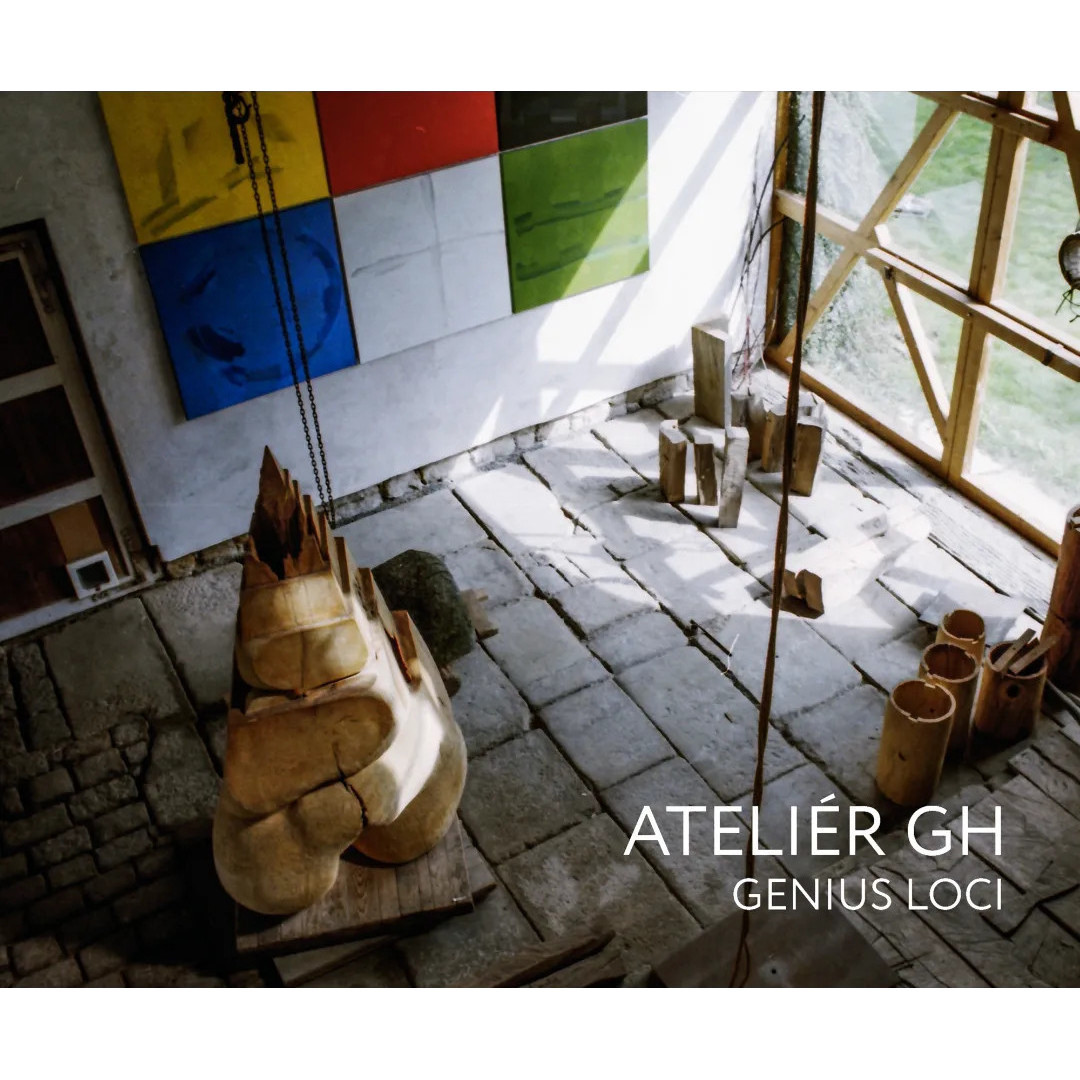
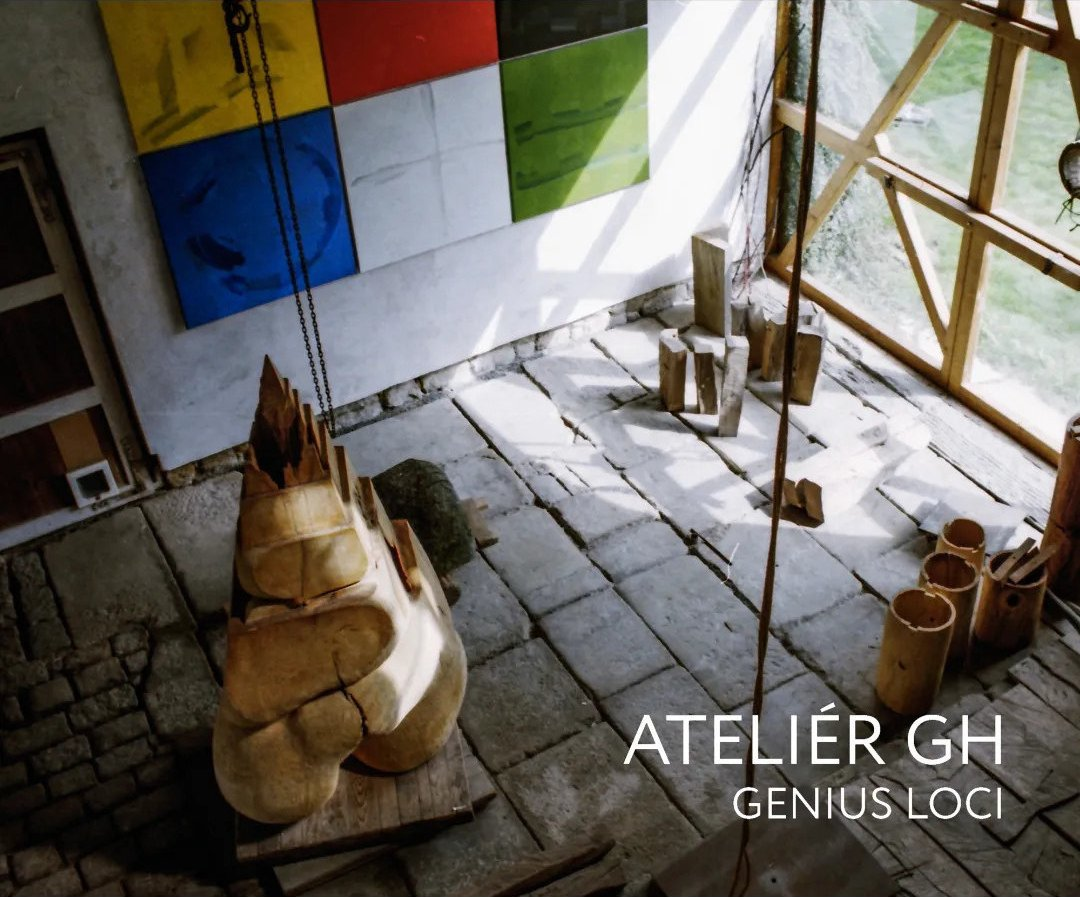
add previews

diff --git a/assets/css/main.scss b/assets/css/main.scss
@@ -246,3 +246,7 @@ li.nav-subitem {
 .preview-gallery-title > a {
   color: black;
 }
+
+.max-width {
+  max-width: 100%;
+}

diff --git a/_pages/photography.md b/_pages/photography.md
@@ -9,6 +9,150 @@ nav_item_style: >
 nav_item_classes:
   - divider-bottom
 published: true
+images:
+  spotlight: true
+preview_galleries:
+  - id: gallery-subjective-landscape
+    title: subjective landscape
+    url: /photography/subjective-landscape
+    images:
+      - /photography/assets/img/subjective_landscape/subjective_landscape_1a-480.webp
+      - /photography/assets/img/subjective_landscape/subjective_landscape_1b-480.webp
+      - /photography/assets/img/subjective_landscape/subjective_landscape_1c-480.webp
+
+  - id: gallery-geometry
+    title: geometry
+    url: /photography/geometry
+    images:
+      - /photography/assets/img/geometry/geometry_01-480.webp
+      - /photography/assets/img/geometry/geometry_02-480.webp
+      - /photography/assets/img/geometry/geometry_03-480.webp
+      - /photography/assets/img/geometry/geometry_04-480.webp
+
+  - id: gallery-orthochromasia
+    title: orthochromasia
+    url: /photography/orthochromasia
+    images:
+      - /photography/assets/img/ortochromasia/ortho_01-480.webp
+      - /photography/assets/img/ortochromasia/ortho_02-480.webp
+      - /photography/assets/img/ortochromasia/ortho_03-480.webp
+      - /photography/assets/img/ortochromasia/ortho_04-480.webp
+      - /photography/assets/img/ortochromasia/ortho_05-480.webp
+    
+  - id: gallery-genius-loci
+    title: genius loci
+    url: /photography/genius-loci
+    images:
+      - /photography/assets/img/genius_loci/gh_01-480.webp
+      - /photography/assets/img/genius_loci/gh_02-480.webp
+      - /photography/assets/img/genius_loci/gh_03-480.webp
+      - /photography/assets/img/genius_loci/gh_04-480.webp
+      - /photography/assets/img/genius_loci/gh_05-480.webp
+      - /photography/assets/img/genius_loci/gh_06-480.webp
+      - /photography/assets/img/genius_loci/gh_07-480.webp
+      - /photography/assets/img/genius_loci/gh_08-480.webp
+      - /photography/assets/img/genius_loci/gh_09-480.webp
+      - /photography/assets/img/genius_loci/gh_10-480.webp
+
+  - id: gallery-suburbs
+    title: suburbs
+    url: /photography/suburbs
+    images:
+      - /photography/assets/img/suburbs/suburbs_01-480.webp
+      - /photography/assets/img/suburbs/suburbs_02-480.webp
+      - /photography/assets/img/suburbs/suburbs_03-480.webp
+      - /photography/assets/img/suburbs/suburbs_04-480.webp
+      - /photography/assets/img/suburbs/suburbs_05-480.webp
+      - /photography/assets/img/suburbs/suburbs_06-480.webp
+      - /photography/assets/img/suburbs/suburbs_07-480.webp
+      - /photography/assets/img/suburbs/suburbs_08-480.webp
+
+  - id: gallery-landscape
+    title: landscape
+    url: /photography/landscape
+    images:
+      - /photography/assets/img/landscape/landscape_01-480.webp
+      - /photography/assets/img/landscape/landscape_02-480.webp
+      - /photography/assets/img/landscape/landscape_03-480.webp
+      - /photography/assets/img/landscape/landscape_04-480.webp
+      - /photography/assets/img/landscape/landscape_05-480.webp
+      - /photography/assets/img/landscape/landscape_06-480.webp
+      - /photography/assets/img/landscape/landscape_07-480.webp
+      - /photography/assets/img/landscape/landscape_08-480.webp
+      - /photography/assets/img/landscape/landscape_09-480.webp
+      - /photography/assets/img/landscape/landscape_10-480.webp
+
+  - id: gallery-still1
+    title: still life 1
+    url: /photography/still1
+    images:
+      - /photography/assets/img/still_life_1/still1_01-480.webp
+      - /photography/assets/img/still_life_1/still1_02-480.webp
+      - /photography/assets/img/still_life_1/still1_03-480.webp
+      - /photography/assets/img/still_life_1/still1_04-480.webp
+      - /photography/assets/img/still_life_1/still1_05-480.webp
+
+  - id: gallery-still2
+    title: still life 2
+    url: /photography/still2
+    images:
+      - /photography/assets/img/still_life_2/still2_01-480.webp
+      - /photography/assets/img/still_life_2/still2_02-480.webp
+      - /photography/assets/img/still_life_2/still2_03-480.webp
+
+  - id: gallery-greenhouse
+    title: greenhouse
+    url: /photography/greenhouse
+    images:
+      - /photography/assets/img/greenhouse/greenhouse_01-480.webp
+      - /photography/assets/img/greenhouse/greenhouse_02-480.webp
+      - /photography/assets/img/greenhouse/greenhouse_03-480.webp
+      - /photography/assets/img/greenhouse/greenhouse_04-480.webp
+      - /photography/assets/img/greenhouse/greenhouse_05-480.webp
+      - /photography/assets/img/greenhouse/greenhouse_06-480.webp
+      - /photography/assets/img/greenhouse/greenhouse_07-480.webp
+
+  - id: gallery-head
+    title: head
+    url: /photography/head
+    images:
+      - /photography/assets/img/head/head_01-480.webp
+      - /photography/assets/img/head/head_02-480.webp
+      - /photography/assets/img/head/head_03-480.webp
+      - /photography/assets/img/head/head_04-480.webp
+      - /photography/assets/img/head/head_05-480.webp
+      - /photography/assets/img/head/head_06-480.webp
+      - /photography/assets/img/head/head_07-480.webp
+      - /photography/assets/img/head/head_08-480.webp
+
+  - id: gallery-my-film-is-not-advancing
+    title: my film is not advancing
+    url: /photography/my-film-is-not-advancing
+    images:
+      - /photography/assets/img/multi/multi_a1-480.webp
+      - /photography/assets/img/multi/multi_a2-480.webp
+      - /photography/assets/img/multi/multi_a3-480.webp
+      - /photography/assets/img/multi/multi_a4-480.webp
+      - /photography/assets/img/multi/multi_b1-480.webp
+      - /photography/assets/img/multi/multi_b2-480.webp
+      - /photography/assets/img/multi/multi_b3-480.webp
+      - /photography/assets/img/multi/multi_b4-480.webp
+      - /photography/assets/img/multi/multi_b5-480.webp
+      - /photography/assets/img/multi/multi_c1-480.webp
+      - /photography/assets/img/multi/multi_c2-480.webp
+      - /photography/assets/img/multi/multi_c3-480.webp
+      - /photography/assets/img/multi/multi_c4-480.webp
+      - /photography/assets/img/multi/multi_c5-480.webp
 ---
 
-Hello world!
+<div id="gallery-subjective-landscape" class="preview-gallery"></div>
+<div id="gallery-geometry" class="preview-gallery"></div>
+<div id="gallery-orthochromasia" class="preview-gallery"></div>
+<div id="gallery-genius-loci" class="preview-gallery"></div>
+<div id="gallery-suburbs" class="preview-gallery"></div>
+<div id="gallery-landscape" class="preview-gallery"></div>
+<div id="gallery-still1" class="preview-gallery"></div>
+<div id="gallery-still2" class="preview-gallery"></div>
+<div id="gallery-greenhouse" class="preview-gallery"></div>
+<div id="gallery-my-film-is-not-advancing" class="preview-gallery"></div>
+<div id="gallery-head" class="preview-gallery"></div>

diff --git a/_pages/subjective-landscape.md b/_pages/subjective-landscape.md
@@ -12,8 +12,8 @@ images:
 ---
 
 <div>
-    <img src="/photography/assets/img/subjective_landscape/subjective_landscape_etym_1-480.webp">
-    <img src="/photography/assets/img/subjective_landscape/subjective_landscape_etym_2-480.webp">
+    <img class="max-width" src="/photography/assets/img/subjective_landscape/subjective_landscape_etym_1-480.webp">
+    <img class="max-width" src="/photography/assets/img/subjective_landscape/subjective_landscape_etym_2-480.webp">
 </div>
 <div class="spotlight-group spotlight-flex">
     <span class="flex-divider"></span>

diff --git a/_pages/head.md b/_pages/head.md
@@ -3,7 +3,7 @@ layout: page
 title: head
 permalink: /head
 nav: true
-nav_order: 10
+nav_order: 12
 nav_item_classes:
   - nav-subitem
 published: true
@@ -24,6 +24,7 @@ images:
     <a class="spotlight" href="/photography/assets/img/head/head_04.jpg">
         <img src="/photography/assets/img/head/head_04-480.webp" />
     </a>
+    <span class="flex-divider"></span>
     <a class="spotlight" href="/photography/assets/img/head/head_05.jpg">
         <img src="/photography/assets/img/head/head_05-480.webp" />
     </a>

diff --git a/_pages/my-film-is-not-advancing.md b/_pages/my-film-is-not-advancing.md
@@ -3,7 +3,7 @@ layout: page
 title: my film is not advancing
 permalink: /my-film-is-not-advancing
 nav: true
-nav_order: 11
+nav_order: 13
 nav_item_classes:
   - nav-subitem
 published: true

diff --git a/_pages/orthochromasia.md b/_pages/orthochromasia.md
@@ -3,7 +3,7 @@ layout: page
 title: orthochromasia
 permalink: /orthochromasia
 nav: true
-nav_order: 4
+nav_order: 5
 nav_item_classes:
   - nav-subitem
 published: true

diff --git a/_pages/genius-loci.md b/_pages/genius-loci.md
@@ -3,7 +3,7 @@ layout: page
 title: genius loci
 permalink: /genius-loci
 nav: true
-nav_order: 5
+nav_order: 6
 nav_item_classes:
   - nav-subitem
 published: true

diff --git a/_pages/greenhouse.md b/_pages/greenhouse.md
@@ -3,7 +3,7 @@ layout: page
 title: greenhouse
 permalink: /greenhouse
 nav: true
-nav_order: 9
+nav_order: 11
 nav_item_classes:
   - nav-subitem
 published: true

diff --git a/_pages/still2.md b/_pages/still2.md
@@ -3,7 +3,7 @@ layout: page
 title: still life 2
 permalink: /still2
 nav: true
-nav_order: 8
+nav_order: 10
 nav_item_classes:
   - nav-subitem
 published: true

diff --git a/_pages/landscape.md b/_pages/landscape.md
@@ -3,7 +3,7 @@ layout: page
 title: landscape
 permalink: /landscape
 nav: true
-nav_order: 6
+nav_order: 8
 nav_item_classes:
   - nav-subitem
 published: true

diff --git a/_pages/still1.md b/_pages/still1.md
@@ -3,7 +3,7 @@ layout: page
 title: still life 1
 permalink: /still1
 nav: true
-nav_order: 7
+nav_order: 9
 nav_item_classes:
   - nav-subitem
 published: true

diff --git a/_pages/suburbs.md b/_pages/suburbs.md
@@ -3,7 +3,7 @@ layout: page
 title: suburbs
 permalink: /suburbs
 nav: true
-nav_order: 5
+nav_order: 7
 nav_item_classes:
   - nav-subitem
 published: true
